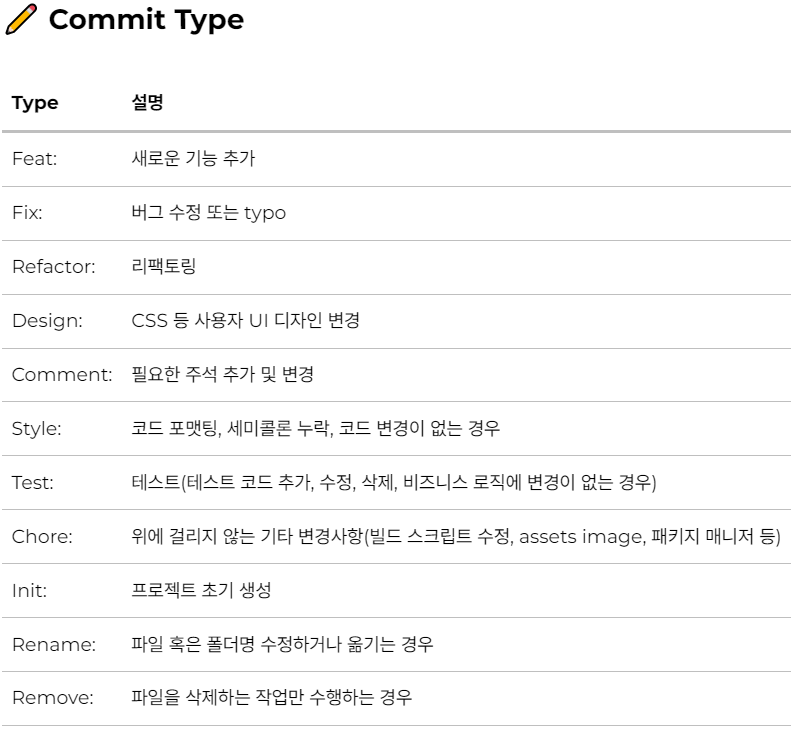
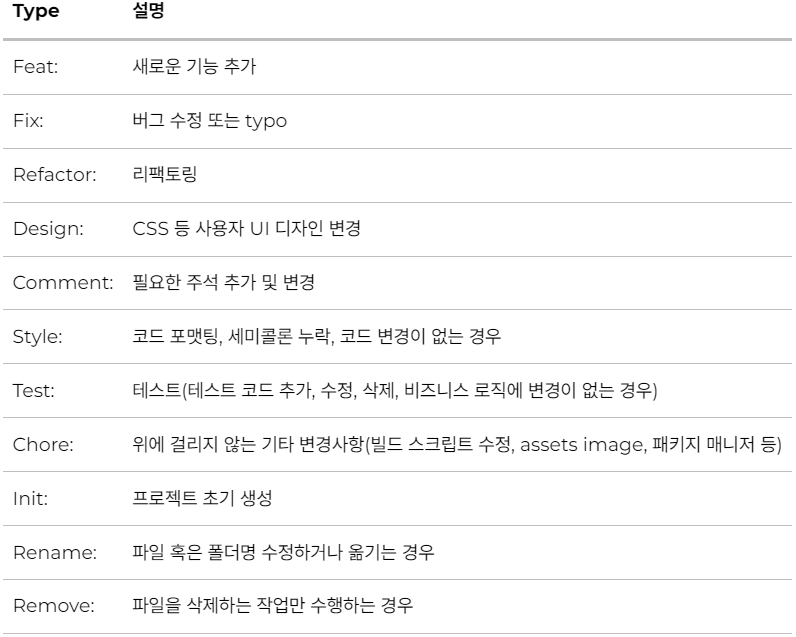
Docs Update README - Update commit convention

Changed region(s): [[0.0, 0.0, 0.9962, 1.0], [0.0, 0.6562, 0.0906, 0.7457]]

diff --git a/README.md b/README.md
@@ -53,6 +53,8 @@ type: Subject - body
 
 <br>
 
+✏**Commit Type**
+
 <img src="./readme_pic/commit_type.PNG" style="width: 300px ">
 
 <br>
